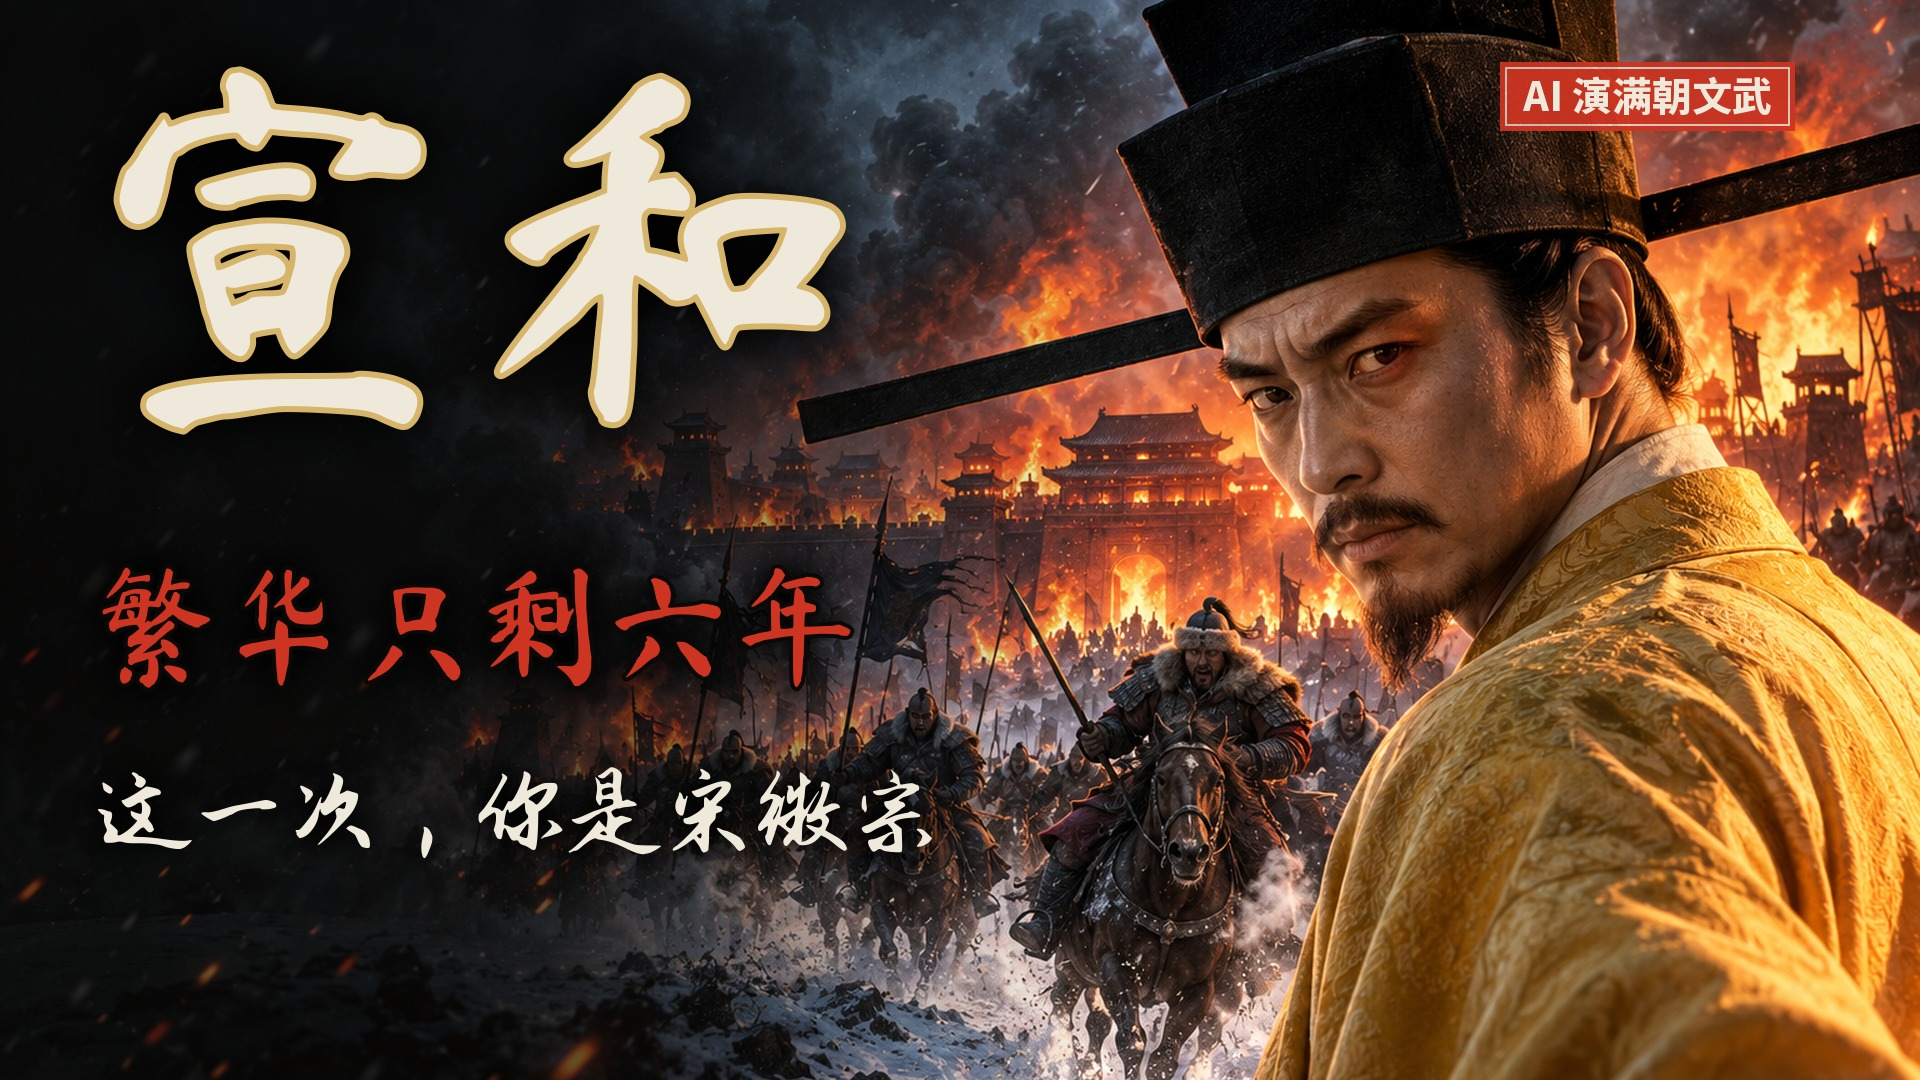
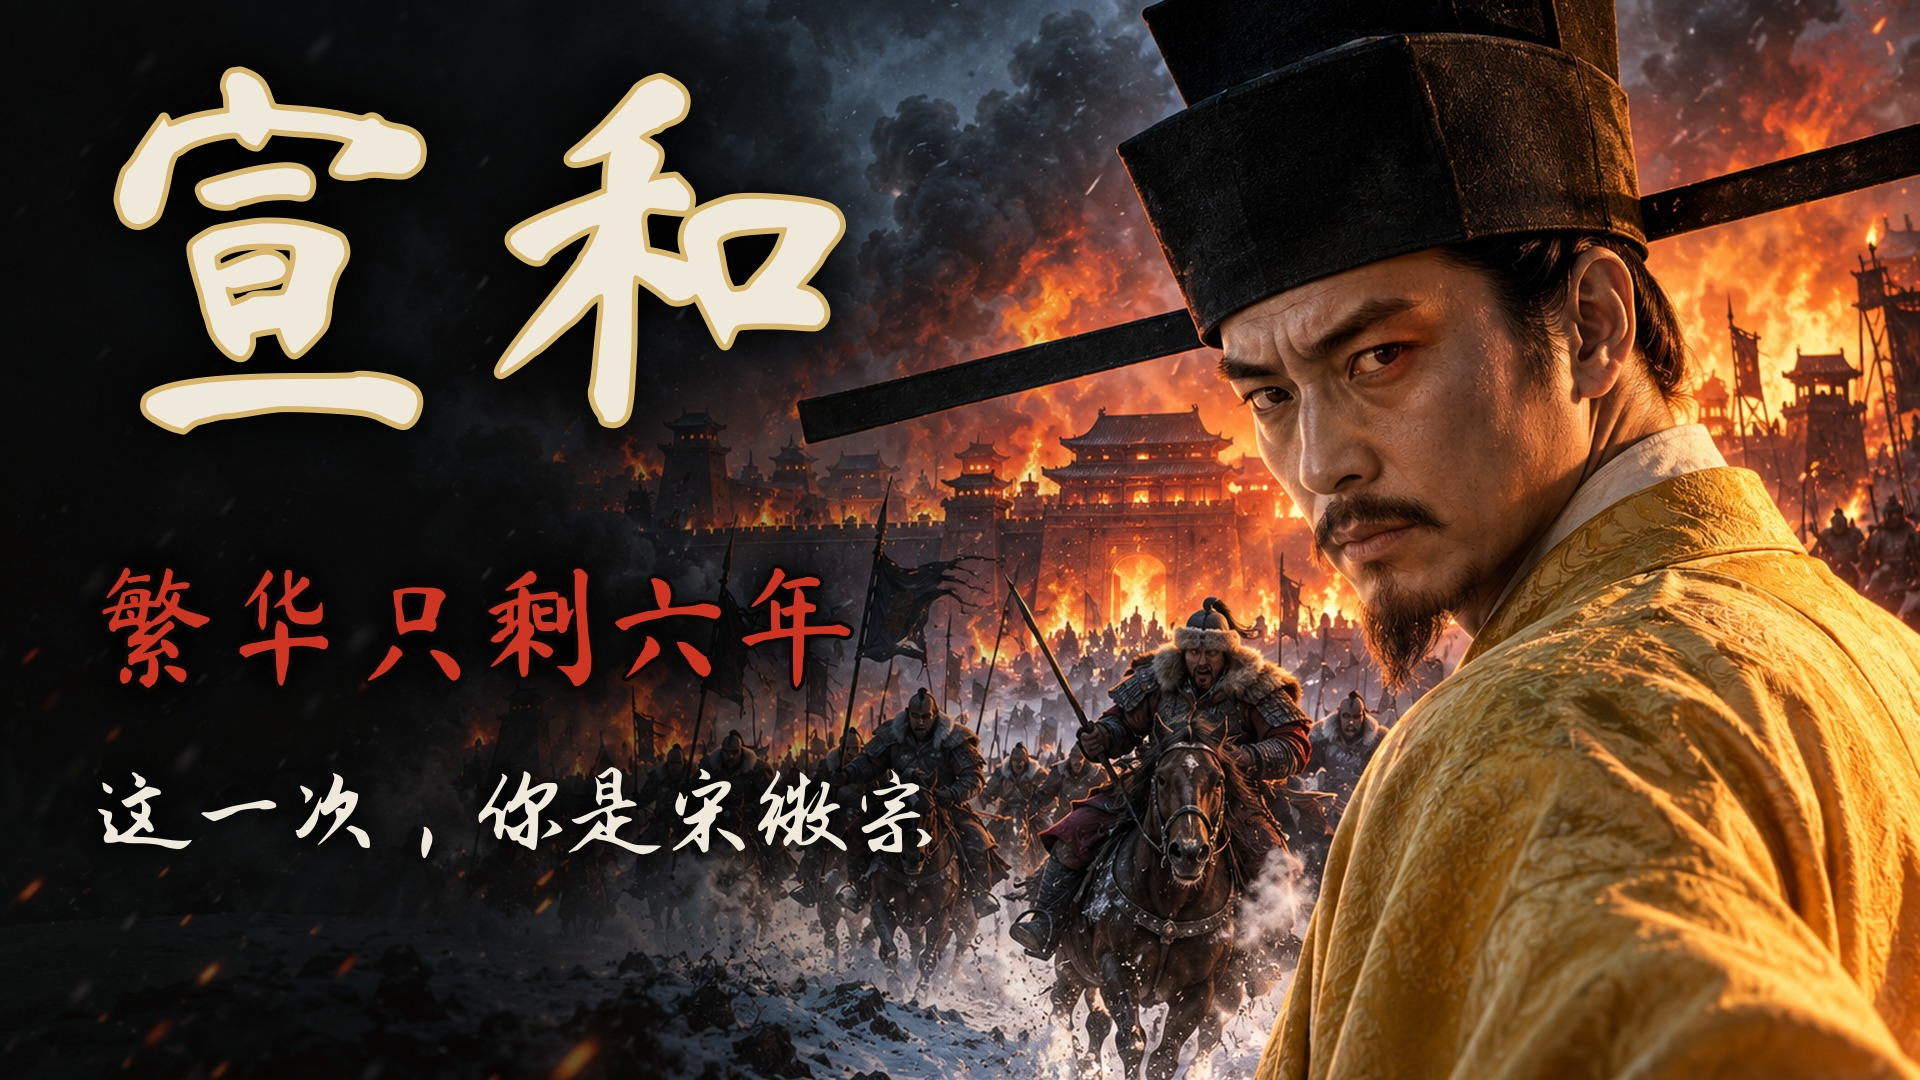
promo: covers without the 「AI 演满朝文武」 tag

Changed region(s): [[0.7812, 0.0306, 0.9375, 0.1222]]

diff --git a/videos/xuanhe-promo/cover/make_cover.py b/videos/xuanhe-promo/cover/make_cover.py
@@ -86,7 +86,7 @@ def make_a():
         d.text((92, 560), "繁华只剩六年", font=hook, fill=RED, stroke_width=4, stroke_fill=INK)
         d.text((98, 760), "这一次，你是宋徽宗", font=line, fill=SNOW)
     img = glow_paste(img, text_layer(hooks), radius=16, spread=4)
-    img = seal(img, (1500, 62), "AI 演满朝文武")
+    # (no corner tag: the client dropped 「AI 演满朝文武」)
     return img.convert("RGB")
 
 
@@ -111,7 +111,7 @@ def make_b():
         l, t, r, b = d.textbbox((0, 0), "靖康", font=hook)
         d.text((W - 70 - (r - l) - l, 300), "靖康", font=hook, fill=RED, stroke_width=4, stroke_fill=INK)
     img = glow_paste(img, text_layer(hooks), radius=14, spread=4)
-    img = seal(img, (70, 70), "AI 演满朝文武", size=34)
+    # (no corner tag: the client dropped 「AI 演满朝文武」)
     return img.convert("RGB")
 
 
